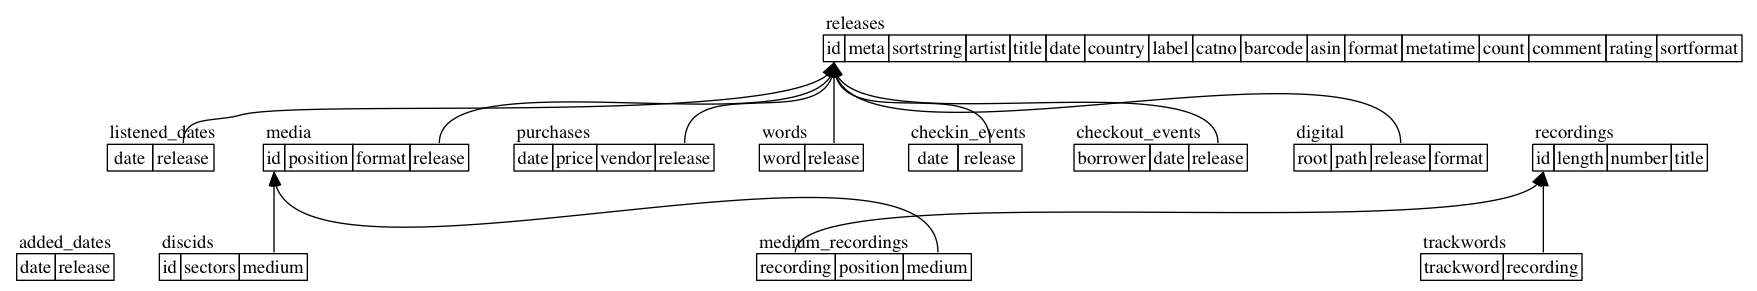
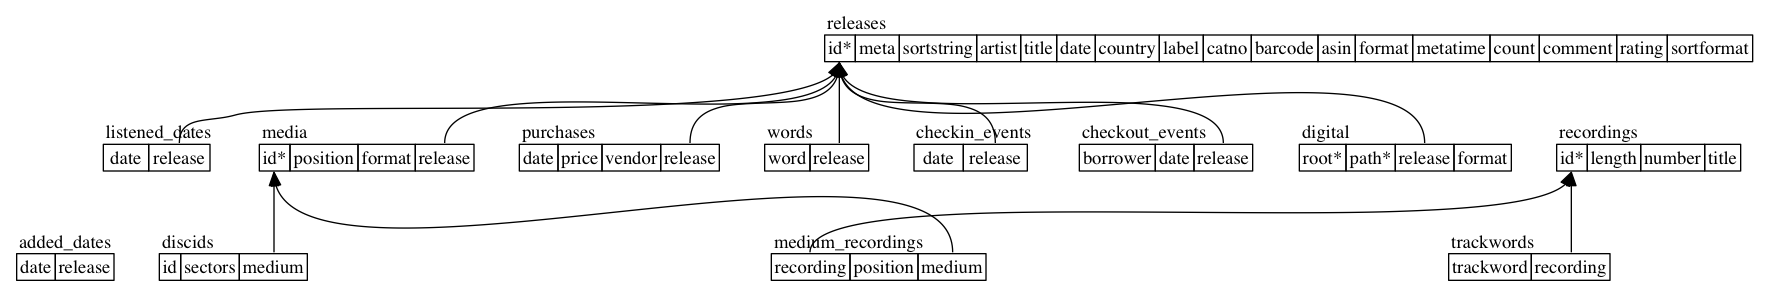
Parsing into a data structure before rendering DOT code. Still writing edge lines while parsing.

diff --git a/scripts/schema_graphviz.py b/scripts/schema_graphviz.py
@@ -1,4 +1,5 @@
 import shlex
+from collections import OrderedDict
 
 """
 A script to convert an SQL schema into a GraphViz diagram.
@@ -12,55 +13,69 @@ digraph schema {
     ]
 edge_lines = []
 
+tables = list()
+
 with open('schema.sql', 'r') as f:
     for line in f:
         lexer = shlex.shlex(line)
         if lexer.get_token().lower() == 'create':
             if lexer.get_token().lower() == 'table':
-                table_name = lexer.get_token()
-                dot_lines.append("""    %s[label=<
-<TABLE BORDER="0" CELLBORDER="1" CELLSPACING="0">
-    <TR><TD BORDER="0" COLSPAN="20" ALIGN="left">%s</TD></TR>
-    <TR>""" % (table_name, table_name))
+                table = dict()
+                tables.append(table)
+                table['name'] = lexer.get_token()
+                table['columns'] = OrderedDict()
+
                 assert lexer.get_token() == '('
                 while True:
                     tok = lexer.get_token()
                     if tok.lower() == 'foreign':
                         assert lexer.get_token().lower() == 'key'
                         assert lexer.get_token() == '('
-                        foreign_child_column = lexer.get_token()
+                        child_column = lexer.get_token()
+                        col = table['columns'][child_column]
+                        col['foreign-key'] = dict()
                         assert lexer.get_token() == ')'
                         assert lexer.get_token().lower() == 'references'
-                        foreign_parent_table = lexer.get_token()
+                        col['foreign-key']['parent-table'] = lexer.get_token()
                         assert lexer.get_token() == '('
-                        foreign_parent_column = lexer.get_token()
+                        col['foreign-key']['parent-column'] = lexer.get_token()
                         assert lexer.get_token() == ')'
 
                         edge_lines.append("""    %s:%s:n -> %s:%s:s;""" % \
-                            (table_name, foreign_child_column,
-                            foreign_parent_table, foreign_parent_column))
+                            (table['name'], child_column,
+                            col['foreign-key']['parent-table'],
+                            col['foreign-key']['parent-column']))
 
-                        foreign_options = []
+                        col['foreign-key']['options'] = list()
                         tok = lexer.get_token()
                         while tok != ';' and tok != ',':
-                            foreign_options.append(tok)
+                            col['foreign-key']['options'].append(tok)
                             tok = lexer.get_token()
                     elif tok.lower() == 'primary':
                         assert lexer.get_token().lower() == 'key'
+                        assert lexer.get_token() == '('
+                        while True:
+                            col = table['columns'][lexer.get_token()]
+                            col['primary-key'] = True
+                            tok = lexer.get_token()
+                            if tok != ',':
+                                break
+                        assert tok == ')'
+                        #tok = lexer.get_token()
+                        #if tok == '(':
+                            #while tok != ')':
+                                #tok = lexer.get_token()
                         tok = lexer.get_token()
-                        if tok == '(':
-                            while tok != ')':
-                                tok = lexer.get_token()
-                        tok = lexer.get_token()
-                        assert tok == ',' or tok == ')'
+                        #assert tok == ',' or tok == ')'
                     elif tok != '':
-                        column_name = tok
-                        dot_lines.append('        <TD PORT="%s">%s</TD>'%\
-                            (column_name, column_name))
-                        column_options = []
+                        col = dict(options=[])
+                        table['columns'][tok] = col
                         tok = lexer.get_token()
                         while tok != ',' and tok != ')':
-                            column_options.append(tok)
+                            if tok.lower() == 'primary':
+                                assert lexer.get_token().lower() == 'key'
+                                col['primary-key'] = True
+                            col['options'].append(tok)
                             tok = lexer.get_token()
                         if tok == ')':
                             tok = lexer.get_token()
@@ -69,7 +84,15 @@ with open('schema.sql', 'r') as f:
                     else:
                         break
 
-                dot_lines.append("""    </TR>
+for table in tables:
+    dot_lines.append("""    %s[label=<
+<TABLE BORDER="0" CELLBORDER="1" CELLSPACING="0">
+    <TR><TD BORDER="0" COLSPAN="20" ALIGN="left">%s</TD></TR>
+    <TR>""" % (table['name'], table['name']))
+    for column_name, col in table['columns'].items():
+        dot_lines.append('        <TD PORT="%s">%s%s</TD>'%\
+            (column_name, column_name, '*' if 'primary-key' in col else ''))
+    dot_lines.append("""    </TR>
 </TABLE>>];""")
 
 dot_lines.extend(edge_lines)
